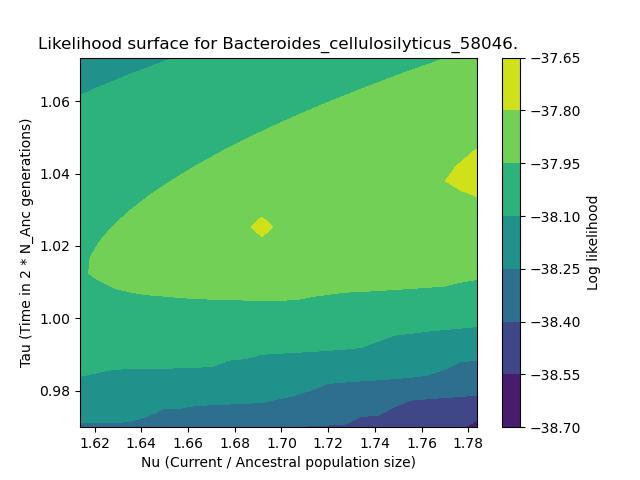
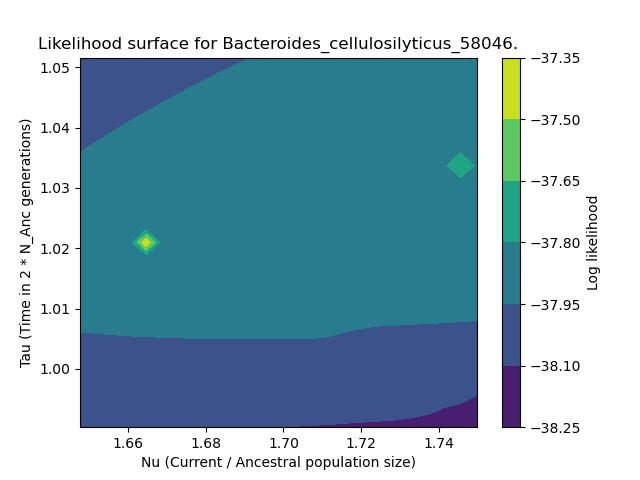
B. cellulosilyticus likelihood

diff --git a/Scripts/plot_likelihood.py b/Scripts/plot_likelihood.py
@@ -466,8 +466,8 @@ class PlotLikelihood():
 
                 npts = 25
 
-                x_range = numpy.linspace(x * 0.95, x * 1.05, npts)
-                y_range = numpy.linspace(y * 0.95, y * 1.05, npts)
+                x_range = numpy.linspace(x * 0.97, x * 1.03, npts)
+                y_range = numpy.linspace(y * 0.97, y * 1.03, npts)
 
                 X, Y = numpy.meshgrid(x_range, y_range)
 
